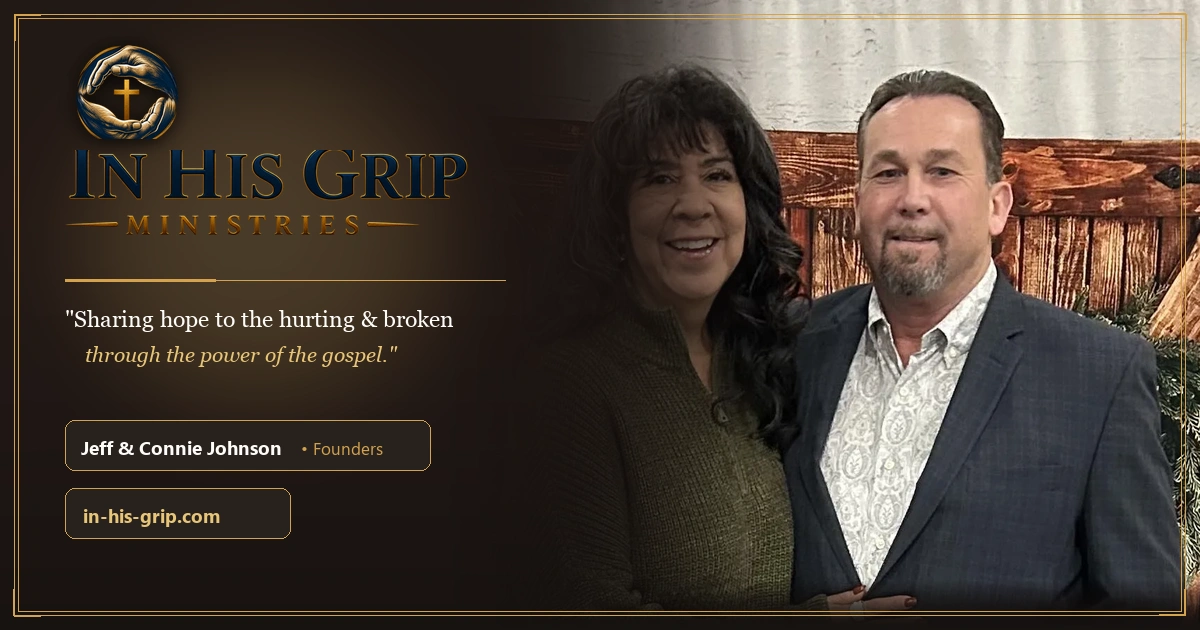
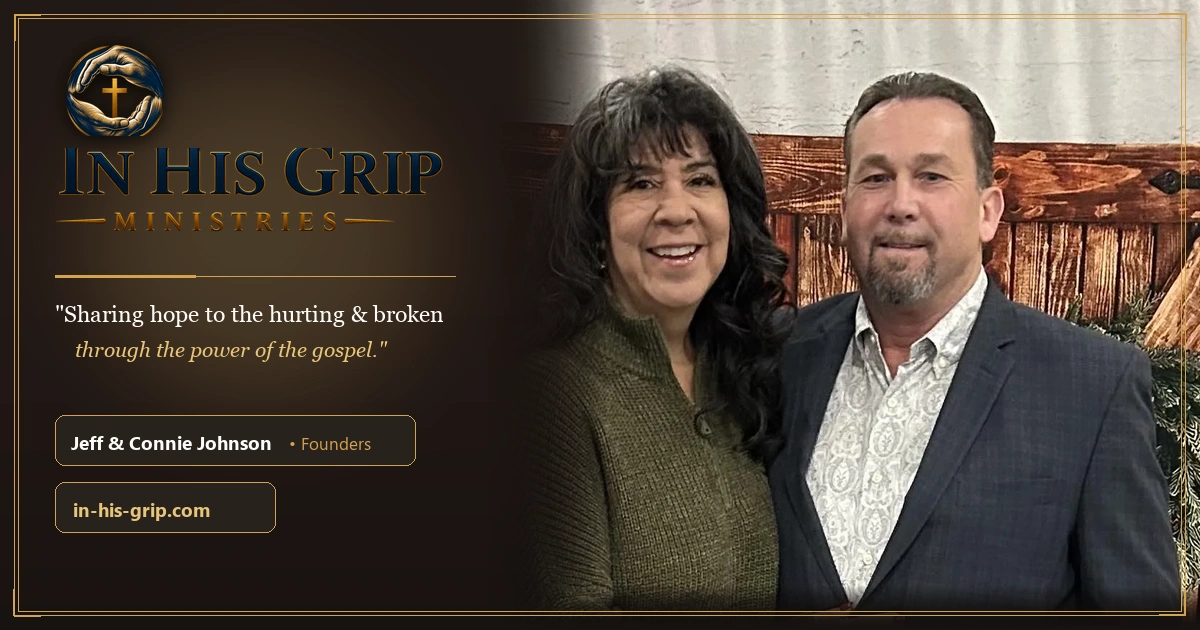
fix(og-image): adjust photo positioning and feathering so Connie is fully visible outside the gradient

diff --git a/create_og_images.py b/create_og_images.py
@@ -61,9 +61,9 @@ def create_variant_1():
     aura = aura.filter(ImageFilter.GaussianBlur(55))
     card = Image.alpha_composite(card, aura)
 
-    # Photo Crop: Full headroom at top (y=0 to y=880) so their heads & faces are unclipped
-    # photo size is 1169 x 1169
-    crop_box = (40, 0, 1150, 900)
+    # Photo Crop: Full headroom at top (y=0 to y=875), crop excess background on left
+    # Connie is centered around x=480, Jeff around x=850
+    crop_box = (150, 0, 1169, 875)
     p_cropped = photo.crop(crop_box)
 
     # Scale to canvas height 630
@@ -71,19 +71,20 @@ def create_variant_1():
     target_w = int(p_cropped.width * (target_h / p_cropped.height))
     p_scaled = p_cropped.resize((target_w, target_h), Image.Resampling.LANCZOS)
 
-    # Feather left edge smoothly
+    # Shift photo right so Connie is well outside the gradient
     photo_layer = Image.new('RGBA', (W, H), (0, 0, 0, 0))
-    photo_x = W - target_w
+    photo_x = W - target_w + 10
 
+    # Narrow alpha mask for feathering only the leftmost edge (before Connie's hair)
     mask = Image.new('L', (target_w, target_h), 255)
     mask_draw = ImageDraw.Draw(mask)
-    fade_w = 340
+    fade_w = 130
     for x in range(fade_w):
-        alpha = int(255 * (x / fade_w)**1.55)
+        alpha = int(255 * (x / fade_w)**1.5)
         mask_draw.line([(x, 0), (x, target_h)], fill=alpha)
 
     # Subtle bottom fade
-    fade_h = 50
+    fade_h = 45
     for y in range(target_h - fade_h, target_h):
         alpha = int(255 * (1.0 - (y - (target_h - fade_h)) / fade_h))
         for x in range(target_w):
@@ -93,11 +94,11 @@ def create_variant_1():
     photo_layer.paste(p_scaled, (photo_x, 0), mask)
     card = Image.alpha_composite(card, photo_layer)
 
-    # Left Column Layout (center column around x = 275)
-    col_x = 65
+    # Left Column Layout
+    col_x = 55
 
     # 1. Emblem
-    emb_target_h = 95
+    emb_target_h = 92
     emb_target_w = int(emblem.width * (emb_target_h / emblem.height))
     emb_scaled = emblem.resize((emb_target_w, emb_target_h), Image.Resampling.LANCZOS)
     
@@ -109,37 +110,37 @@ def create_variant_1():
     card.paste(emb_scaled, (col_x, 44), emb_scaled)
 
     # 2. Title & Ministries
-    title_target_w = 405
+    title_target_w = 390
     title_target_h = int(title.height * (title_target_w / title.width))
     title_scaled = title.resize((title_target_w, title_target_h), Image.Resampling.LANCZOS)
-    card.paste(title_scaled, (col_x, 150), title_scaled)
+    card.paste(title_scaled, (col_x, 148), title_scaled)
 
-    min_target_w = 355
+    min_target_w = 340
     min_target_h = int(ministries.height * (min_target_w / ministries.width))
     min_scaled = ministries.resize((min_target_w, min_target_h), Image.Resampling.LANCZOS)
-    card.paste(min_scaled, (col_x, 215), min_scaled)
+    card.paste(min_scaled, (col_x, 212), min_scaled)
 
     # 3. Gold divider line
     draw = ImageDraw.Draw(card)
-    draw.line([(col_x, 280), (col_x + 150, 280)], fill=(212, 162, 76, 255), width=3)
-    draw.line([(col_x + 150, 280), (col_x + 440, 280)], fill=(212, 162, 76, 90), width=1)
+    draw.line([(col_x, 276), (col_x + 140, 276)], fill=(212, 162, 76, 255), width=3)
+    draw.line([(col_x + 140, 276), (col_x + 400, 276)], fill=(212, 162, 76, 90), width=1)
 
     # 4. Mission Tagline
     tagline_1 = '"Sharing hope to the hurting & broken'
     tagline_2 = 'through the power of the gospel."'
-    draw.text((col_x, 305), tagline_1, fill=(254, 252, 249, 245), font=font_serif_md)
-    draw.text((col_x + 20, 342), tagline_2, fill=(232, 197, 118, 240), font=font_serif_it)
+    draw.text((col_x, 300), tagline_1, fill=(254, 252, 249, 245), font=font_serif_md)
+    draw.text((col_x + 20, 337), tagline_2, fill=(232, 197, 118, 240), font=font_serif_it)
 
     # 5. Badges
     badge_bg = (40, 34, 30, 230)
     # Founders badge
-    draw.rounded_rectangle([col_x, 420, col_x + 365, 470], radius=10, fill=badge_bg, outline=(212, 162, 76, 140), width=1)
-    draw.text((col_x + 16, 434), "Jeff & Connie Johnson", fill=(254, 252, 249, 255), font=font_sans_bold)
-    draw.text((col_x + 236, 436), "• Founders", fill=(212, 162, 76, 220), font=font_sans_med)
+    draw.rounded_rectangle([col_x, 415, col_x + 360, 465], radius=10, fill=badge_bg, outline=(212, 162, 76, 140), width=1)
+    draw.text((col_x + 16, 429), "Jeff & Connie Johnson", fill=(254, 252, 249, 255), font=font_sans_bold)
+    draw.text((col_x + 234, 431), "• Founders", fill=(212, 162, 76, 220), font=font_sans_med)
 
     # Website badge
-    draw.rounded_rectangle([col_x, 488, col_x + 225, 538], radius=10, fill=badge_bg, outline=(212, 162, 76, 140), width=1)
-    draw.text((col_x + 18, 502), "in-his-grip.com", fill=(232, 197, 118, 255), font=font_sans_bold)
+    draw.rounded_rectangle([col_x, 482, col_x + 220, 532], radius=10, fill=badge_bg, outline=(212, 162, 76, 140), width=1)
+    draw.text((col_x + 18, 496), "in-his-grip.com", fill=(232, 197, 118, 255), font=font_sans_bold)
 
     # Outer decorative luxury frame
     draw.rectangle([14, 14, W-15, H-15], outline=(212, 162, 76, 85), width=1)
